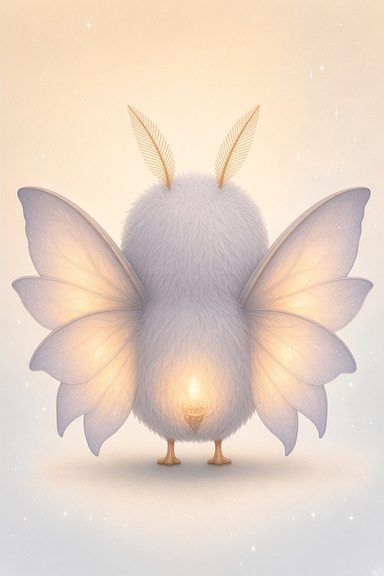
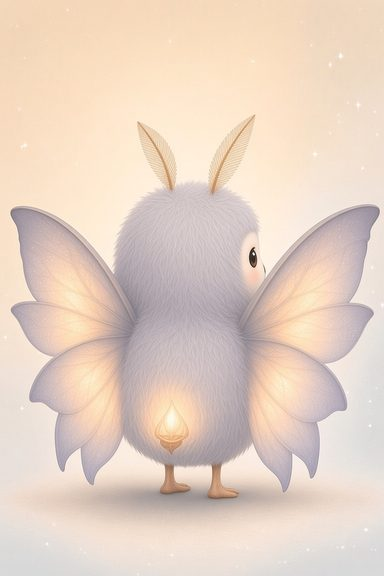
完善画面 1.10.10：修正体力越界夹具，接入 23 张朝右背面
浏览器回归曾把敌方体力写成超过上限，截图出现 70/63。夹具改为按真实上限写入并重画，检查数据而不在界面截断。23 张新背面改为朝右且不再翻转；叶角鹿三体和六只朝左的狐、獭策略不变。

Changed region(s): [[0.0312, 0.1875, 1.0, 0.9375], [0.3125, 0.1875, 0.5, 0.3438]]

diff --git a/src/game/facing.ts b/src/game/facing.ts
@@ -10,9 +10,9 @@ export interface BackRead {
 
 /**
  * left：头或胸朝画面左侧，我方槽位只做水平翻转，使它朝向右侧敌方。
- * right：背面稿已经朝画面右侧，不翻转。这一批是叶角鹿、翠枝鹿、森冕鹿。
- * rear：正后方，看不出面朝哪边。不翻转。不能当成已经面向敌方。
- * 正后方 23 张若换成已经朝右的新背面，要把对应 gaze 改成 right，避免和翻转叠在一起。
+ * right：背面稿已经朝画面右侧，不翻转。包括叶角鹿三体，以及 23 张新画的朝右背面。
+ * rear：正后方，看不出面朝哪边。不翻转。这一批已经没有。
+ * 这 23 张新背面不得再水平翻转，否则会和朝右稿叠成朝左。
  */
 export const BACK_READ: Record<SpeciesId, BackRead> = {
   lujiao: { gaze: 'right', why: '原稿头已经偏向画面右侧，尾巴也在右侧。再翻转会改成朝左。' },
@@ -24,29 +24,29 @@ export const BACK_READ: Record<SpeciesId, BackRead> = {
   xiwen: { gaze: 'left', why: '身体斜向画面左侧，水纹尾在右侧。' },
   chaowen: { gaze: 'left', why: '和汐纹獭同一朝向，头偏左，尾巴在右。' },
   canglan: { gaze: 'left', why: '和汐纹獭同一朝向，头偏左，尾巴在右。' },
-  luzhu: { gaze: 'rear', why: '正后方，左右对称，看不出面朝哪边。' },
-  linlu: { gaze: 'rear', why: '正后方，头顶水滴左右对称。' },
-  jinglu: { gaze: 'rear', why: '正后方，水滴和肩上的泡左右对称。' },
-  dianrong: { gaze: 'rear', why: '正后方。卷起的小尾不是头的朝向。' },
-  shanrong: { gaze: 'rear', why: '正后方。尾巴弯曲不是头的朝向。' },
-  tingrong: { gaze: 'rear', why: '正后方，额上的闪电左右对称。' },
-  yanke: { gaze: 'rear', why: '正后方的龟壳，头和尾都在中线。' },
-  panjia: { gaze: 'rear', why: '正后方。壳上偏左的叶子是花纹，不是面朝左侧。' },
-  fengling: { gaze: 'rear', why: '正后方，铃在背中线。' },
-  lingyu: { gaze: 'rear', why: '正后方，双铃在背中线。' },
-  yaoling: { gaze: 'rear', why: '正后方，双铃在背中线。' },
-  taibei: { gaze: 'rear', why: '正后方，苔背和耳朵左右对称。' },
-  senbei: { gaze: 'rear', why: '正后方，背上的花和果实不是朝向。' },
-  wudeng: { gaze: 'rear', why: '正后方，翅膀和触角左右对称。' },
-  wuhui: { gaze: 'rear', why: '正后方，四盏灯左右成对。' },
-  landeng: { gaze: 'rear', why: '正后方，灯在尾端中线。' },
-  yunyang: { gaze: 'rear', why: '正后方，双角左右对称。' },
-  lanjiao: { gaze: 'rear', why: '正后方，双角左右对称。' },
-  luoxing: { gaze: 'rear', why: '正后方，翼膜左右对称。' },
-  xingyi: { gaze: 'rear', why: '正后方，尾巴居中下垂。' },
-  liuxing: { gaze: 'rear', why: '正后方，翼膜和星尾左右对称。' },
-  hanquan: { gaze: 'rear', why: '头和躯干是正后方。尾巴甩向画面右侧，翻转只会把尾巴换边，不能变成面向敌方。' },
-  shuangquan: { gaze: 'rear', why: '和寒泉鲵一样，头是正后方，只有尾巴偏向一侧。' },
+  luzhu: { gaze: 'right', why: '新背面身体和远侧眼睛朝右，头的转幅较小，不再是正后方。不翻转。' },
+  linlu: { gaze: 'right', why: '同露珠蛙，远侧眼在右，头转幅较小。不翻转。' },
+  jinglu: { gaze: 'right', why: '同露珠蛙，远侧眼在右，头转幅较小。不翻转。' },
+  dianrong: { gaze: 'right', why: '新背面朝画面右侧。不翻转。' },
+  shanrong: { gaze: 'right', why: '同电绒鼠，朝右。不翻转。' },
+  tingrong: { gaze: 'right', why: '同电绒鼠，朝右。不翻转。' },
+  yanke: { gaze: 'right', why: '新背面朝画面右侧。不翻转。' },
+  panjia: { gaze: 'right', why: '新背面朝画面右侧。不翻转。' },
+  fengling: { gaze: 'right', why: '新背面朝画面右侧。不翻转。' },
+  lingyu: { gaze: 'right', why: '同风铃鸟，朝右。不翻转。' },
+  yaoling: { gaze: 'right', why: '同风铃鸟，朝右。不翻转。' },
+  taibei: { gaze: 'right', why: '新背面朝右。生成稿曾朝左，已在素材里纠正，代码不再翻转。' },
+  senbei: { gaze: 'right', why: '同苔背熊，朝右。生成稿曾朝左，已在素材里纠正，代码不再翻转。' },
+  wudeng: { gaze: 'right', why: '新背面朝右，头转幅很小，只看得到右侧一点眼睛。不翻转。' },
+  wuhui: { gaze: 'right', why: '朝右，头转幅比雾灯蛾稍明显。不翻转。' },
+  landeng: { gaze: 'right', why: '朝右，头转幅中等偏小。不翻转。' },
+  yunyang: { gaze: 'right', why: '新背面朝画面右侧。不翻转。' },
+  lanjiao: { gaze: 'right', why: '同云岩羊，朝右。不翻转。' },
+  luoxing: { gaze: 'right', why: '新背面朝画面右侧。不翻转。' },
+  xingyi: { gaze: 'right', why: '同落星鼯，朝右。不翻转。' },
+  liuxing: { gaze: 'right', why: '同落星鼯，朝右。不翻转。' },
+  hanquan: { gaze: 'right', why: '身体朝右，头几乎不转，后脑仍占主要位置。不翻转。' },
+  shuangquan: { gaze: 'right', why: '同寒泉鲵，身体朝右，头转幅很小。不翻转。' },
 };
 
 export function backGaze(id: SpeciesId): BackGaze {
@@ -64,4 +64,8 @@ export function rearSpecies(): SpeciesId[] {
 
 export function leftSpecies(): SpeciesId[] {
   return (Object.keys(BACK_READ) as SpeciesId[]).filter((id) => BACK_READ[id].gaze === 'left');
+}
+
+export function rightSpecies(): SpeciesId[] {
+  return (Object.keys(BACK_READ) as SpeciesId[]).filter((id) => BACK_READ[id].gaze === 'right');
 }

diff --git a/src/game/facing.test.ts b/src/game/facing.test.ts
@@ -1,5 +1,5 @@
 import { describe, expect, it } from 'vitest';
-import { BACK_READ, backGaze, backMirror, leftSpecies, rearSpecies } from './facing';
+import { BACK_READ, backGaze, backMirror, leftSpecies, rearSpecies, rightSpecies } from './facing';
 import { SPECIES_PORTRAIT_IDS, speciesPortraitHtml } from './portraits';
 import type { SpeciesId } from './types';
 
@@ -9,12 +9,17 @@ describe('背面朝向', () => {
     expect(new Set(Object.keys(BACK_READ))).toEqual(new Set(SPECIES_PORTRAIT_IDS));
     const gazes = new Set(Object.values(BACK_READ).map((row) => row.gaze));
     expect(gazes.has('left')).toBe(true);
-    expect(gazes.has('rear')).toBe(true);
+    expect(gazes.has('rear')).toBe(false);
     expect(gazes.has('right')).toBe(true);
     expect(leftSpecies()).toEqual(['yanwei', 'huowen', 'chiyan', 'xiwen', 'chaowen', 'canglan']);
     expect(backGaze('lujiao')).toBe('right');
     expect(backMirror('lujiao')).toBe(false);
-    expect(rearSpecies()).toHaveLength(23);
+    expect(backGaze('luzhu')).toBe('right');
+    expect(backMirror('luzhu')).toBe(false);
+    expect(backMirror('taibei')).toBe(false);
+    expect(backMirror('senbei')).toBe(false);
+    expect(rearSpecies()).toHaveLength(0);
+    expect(rightSpecies()).toHaveLength(26);
     for (const id of Object.keys(BACK_READ) as SpeciesId[]) {
       expect(backMirror(id)).toBe(backGaze(id) === 'left');
       expect(BACK_READ[id].why.length).toBeGreaterThan(4);

diff --git a/src/game/logic.test.ts b/src/game/logic.test.ts
@@ -10,6 +10,7 @@ import {
   judgeTiming,
   makeMon,
   maxHp,
+  vitalOverflow,
   performMove,
   currentObjective,
   grandmaFollowup,
@@ -25,6 +26,18 @@ import { createWorld, isWalkable, pathExists, tileCenter } from './world';
 const fixed = () => 0.5;
 
 describe('芽灵与属性', () => {
+
+  it('生成和治疗后的体力不超过上限，越界只被检查出来、不在显示层截断', () => {
+    const mon = makeMon('luzhu', 3, 1, true);
+    expect(mon.hp).toBe(maxHp(mon));
+    expect(maxHp(mon)).toBeGreaterThan(0);
+    expect(vitalOverflow(mon)).toBeNull();
+    healTeam([mon]);
+    expect(vitalOverflow(mon)).toBeNull();
+    const over = { ...mon, hp: maxHp(mon) + 17 };
+    expect(vitalOverflow(over)).toBe(`体力 ${maxHp(mon) + 17}/${maxHp(mon)}`);
+    expect(over.hp).toBe(maxHp(mon) + 17);
+  });
   it('至少 8 种生物，每种两个技能', () => {
     expect(SPECIES_LIST.length).toBeGreaterThanOrEqual(8);
     for (const species of SPECIES_LIST) {

diff --git a/src/game/logic.ts b/src/game/logic.ts
@@ -34,6 +34,15 @@ export function maxMp(mon: Mon): number {
   return profile(mon).maxMp;
 }
 
+/** 只检查数据是否越界，不在这里截断。界面应按真实值显示，方便发现错误写入。 */
+export function vitalOverflow(mon: Mon): string | null {
+  const hp = maxHp(mon);
+  const mp = maxMp(mon);
+  if (mon.hp > hp) return `体力 ${mon.hp}/${hp}`;
+  if ((mon.mp ?? 0) > mp) return `法力 ${mon.mp ?? 0}/${mp}`;
+  return null;
+}
+
 export function speedPoint(mon: Mon): number {
   return Math.max(1, Math.floor(profile(mon).core.spd * stageMul(mon.stages.spd)));
 }

diff --git a/src/game/game.ts b/src/game/game.ts
@@ -1640,6 +1640,19 @@ export class Game implements GameHost {
     this.saveSummaryText = `${saved.name} · 图鉴 ${caught}/${total} · ${formatPlay(saved.playMs)}`;
   }
 
+  hpLimit(mon: Mon): number {
+    return maxHp(mon);
+  }
+
+  mpLimit(mon: Mon): number {
+    return maxMp(mon);
+  }
+
+  /** 测试改完当场数据后重画，不改结算。 */
+  repaint(): void {
+    this.refresh();
+  }
+
   private refresh(): void {
     document.body.dataset.mode = this.mode;
     if (this.mode !== 'explore') document.getElementById('toast')?.classList.remove('show');

diff --git a/docs/playtest/ui-ten.md b/docs/playtest/ui-ten.md
@@ -2,7 +2,7 @@
 
 基准是 main `9f8e52b`，画面 1.10.0。这一组只改界面、战斗反馈和背面朝向，不改伤害、暴击、属性倍率、存档键和音乐键。浏览器试玩先 `localStorage.clear()`。`?test=1` 只缩短对话等待。把物种直接改成另一只、或用存档夹具的地方会标明。没有宣称从 1 级自然通关。
 
-朝向是对着 `public/portraits/*-back.jpg` 逐张看的。我方槽位在画面左侧，敌方在右侧。头或胸朝画面左侧的背面，只在我方槽位水平翻转。正后方不翻。图鉴、详情和敌方正面不翻。
+朝向是对着 `public/portraits/*-back.jpg` 逐张看的。我方槽位在画面左侧，敌方在右侧。头或胸朝画面左侧的背面，只在我方槽位水平翻转。已经朝右的背面不翻。图鉴、详情和敌方正面不翻。原先正后方的 23 张已换成朝右新稿，见文末 1.10.10 的接入记录。
 
 ## 1.10.1
 
@@ -81,4 +81,11 @@
 - 问题：出手特效如果在回合结束后还留着，下一回合会叠。减弱动画时刀光不应该继续晃。护盾标签仍读当场结算后的值，可能比「获得护盾」或「护盾挡下」那句战报早一拍。窄屏探索时音乐按钮被放在左右两张信息卡中间。
 - 改动：浏览器脚本在短按和数字键打完、重新可以出招之后，检查刀光、飘字和 `data-strike` 都已清掉。`prefers-reduced-motion` 下位移和飘字动画名为 none。伤害结算仍会执行。护盾点数改由已出现的战报驱动显示，出手那一句仍保持出手前的护盾，对应句子出现后再增减；回合结束仍改回结算后的真实值。窄屏探索时音乐按钮改到右侧信息卡下方并与它右对齐，空隙够宽时仍放在两卡之间的顶栏。不新增版本号。
 - 验证：本机重新跑 `npm test`，73 项通过（新增 1 项护盾显示时序）。`npm run build`、`npm run check:dist`、`npm run test:browser` 通过。浏览器脚本检查窄屏音乐按钮在右侧信息卡下方并与之右对齐，且不与摇杆、交谈、提示重叠。护盾用战报句子推进显示值，不改 30% 攻防和暴击公式。没有用浏览器肉眼验收截图。
-- 限制：没有从 1 级自然打完整条主线。没有人耳听审。正后方 23 张背面仍看不出面朝敌方，等 `/workspace/starbud-ui-right-back/deliver/` 的新背面到齐后再改 `BACK_READ`，避免和新稿方向叠成二次翻转。暴击截图把暴击追加设成 1、掷子设成 0.2，公式仍把暴击率封在 0.5。
+- 限制：没有从 1 级自然打完整条主线。没有人耳听审。暴击截图把暴击追加设成 1、掷子设成 0.2，公式仍把暴击率封在 0.5。
+
+本轮审查后又做了两处完善，仍记在 1.10.10，不另开版本。
+
+- 问题：`battle-390x844.png` 里敌方体力写成 70/63。核对后不是存档或战报快照把上限算错，而是浏览器回归夹具先把 3 级露珠蛙的体力写成 80（上限是 63），两次攻击后数据仍是 70，随后虽改成 40 却没有重画，截图还停在越界值。界面按真实数据画出了 70/63，没有在显示层截断。同一张图里的叶角鹿看似接近正面，资源路径仍是 `lujiao-back.jpg`：背面稿能看到尾巴和后脑，没有脸；测试也核对着 `-back`，不是占位或误用正面。
+- 改动：夹具改成按 `hpLimit` 写入，不超过上限；改完体力后调用 `repaint()`。增加 `vitalOverflow` 检查和浏览器断言：数据与界面的当前值都不能大于上限，可行动时界面要和数据一致。不在 UI 里截断来掩盖错误写入。23 张新背面已替换进 `public/portraits/`，`BACK_READ` 改为 `right` 且不再翻转；叶角鹿三体和六只朝左的狐、獭策略不变，正面稿不变。
+- 验证：本机重新跑 `npm test`，74 项通过。`npm run build`、`npm run check:dist`、`npm run test:browser` 和 `scripts/back-contact.mjs` 通过。`battle-390x844.png` 里敌方体力是合法的当前/上限（不再出现 70/63）。开场战斗和窄屏截图的我方资源都是 `lujiao-back.jpg`。朝向接触表在 `/tmp/xingya-shots/back-contact.png` 和 `docs/playtest/right-back/player-slot-contact.png`。没有把素材 zip 打进仓库。没有用浏览器肉眼充当验收，截图留给审查查看。
+- 限制：蛙、蛾、蝾螈的头转幅较小，不能写成每张都是很强的四分之三侧面；身体或远侧眼睛朝右，记录见 `docs/playtest/right-back-23.md`。苔背熊和森背熊的生成稿曾朝左，已在素材里翻转纠正，代码不再翻。390×844 战斗弹窗中部仍有一块空白，那是竖屏多出来的高度，这一轮没有改版式。

diff --git a/docs/design/setting.md b/docs/design/setting.md
@@ -142,9 +142,9 @@
 朝向：
 
 - 战斗里，我方当前芽灵用背面，对方用正面。野生战、训练师战、更换伙伴和体力耗尽都按这一条。换人之后，新的我方仍是背面，新的对方仍是正面。背面是单独画的，不是把正面镜像过来。
-- 我方站在战场左侧，敌方站在右侧。背面稿如果头或胸朝画面左侧，只在我方槽位水平翻转，让它朝向右侧的敌方。正后方、看不出朝向的背面不翻转。图鉴、详情、遭遇、技能页和敌方正面都不翻转。判定写在 `src/game/facing.ts`。
+- 我方站在战场左侧，敌方站在右侧。背面稿如果头或胸朝画面左侧，只在我方槽位水平翻转，让它朝向右侧的敌方。已经朝右的背面不翻转。图鉴、详情、遭遇、技能页和敌方正面都不翻转。判定写在 `src/game/facing.ts`。
 - 水平翻转只放在 `.portrait-facing`。攻击和受击的位移放在外层 `.battle-motion`，瞬时效果放在 `.battle-fx`。名字、体力和战报不进这两层，所以不会跟着反转。
-- 这一批里，原稿已经朝画面右侧、因此不翻转的是叶角鹿、翠枝鹿、森冕鹿。需要翻转的是焰尾狐、火纹狐、炽焰狐、汐纹獭、潮纹獭、沧澜獭。其余背面是正后方：露珠蛙、霖露蛙、晶露蛙、电绒鼠、闪绒鼠、霆绒鼠、岩壳龟、磐甲龟、风铃鸟、铃羽鸟、瑶铃鸟、苔背熊、森背熊、雾灯蛾、雾辉蛾、岚灯蛾、云岩羊、岚角羊、落星鼯、星翼鼯、流星鼯、寒泉鲵、霜泉鲵。寒泉鲵和霜泉鲵的尾巴偏向一侧，头仍是正后方，翻转不能当成已经面向敌方。磐甲龟壳上的叶子是花纹。这些正后方稿还没有朝向画面右侧的重绘。
+- 原稿已经朝画面右侧、因此不翻转的是叶角鹿、翠枝鹿、森冕鹿。需要翻转的仍是焰尾狐、火纹狐、炽焰狐、汐纹獭、潮纹獭、沧澜獭。其余 23 张已换成朝右的新背面，判定是 `right`，代码不得再翻转，否则会叠成朝左。这 23 张都朝右，但不是每张都是很强的四分之三侧面：露珠蛙、霖露蛙、晶露蛙的头转幅较小，远侧眼睛在右；雾灯蛾、雾辉蛾、岚灯蛾也是头转幅偏小；寒泉鲵和霜泉鲵身体朝右，头几乎不转。详细记录在 `docs/playtest/right-back-23.md`。
 - 队伍详情、初始三选一、图鉴、遭遇和技能页默认用正面。
 - 人物仍是一张正面：`player.jpg` 给三种称呼共用，`grandma.jpg`、`qinghe.jpg`、`lanchuan.jpg` 给芽婆婆、青禾、岚川。雾守和石岭没有静态立绘。
 
@@ -170,6 +170,5 @@
 
 - 努力值、个体洗练、繁殖和付费养成。
 - 进化、建筑室内、第二座岛、登录和云存档。
-- 正后方的背面稿还没有重绘成面向画面右侧。代码不把它们水平翻转来冒充朝向。
 
 这些没有写进结算。若以后做，先改代码和公式文档，再从本节删掉。

diff --git a/docs/playtest/right-back-23.md b/docs/playtest/right-back-23.md
@@ -1,0 +1,28 @@
+# 23 张朝右背面
+
+2026-11-24（Asia/Shanghai）接入。只替换原先正后方的 23 张 `public/portraits/*-back.jpg`。叶角鹿、翠枝鹿、森冕鹿的朝右原稿，以及焰尾狐、火纹狐、炽焰狐、汐纹獭、潮纹獭、沧澜獭的朝左原稿，都不改。全部正面也不改。
+
+判定写在 `src/game/facing.ts`。这 23 张的 `gaze` 都是 `right`，我方槽位不得再水平翻转，否则会和朝右稿叠成朝左。苔背熊、森背熊的生成稿曾经朝左，已在素材里翻转纠正，代码同样不再翻。
+
+## 怎么看
+
+- 总览： [new-backs-contact.jpg](right-back/new-backs-contact.jpg)
+- 新旧对照： [before-after-contact.jpg](right-back/before-after-contact.jpg)
+- 两只熊纠正前后： [taibei-senbei-flip-compare.jpg](right-back/taibei-senbei-flip-compare.jpg)
+
+规格仍是 384×576、渐进 JPEG、质量 82，没有拉伸。文件大小大约 17–26 KB，和原来的立绘接近。
+
+## 朝向
+
+这 23 张都朝画面右侧，也就是我方槽位面向右侧敌方。不能写成每张都是很强的四分之三侧面。
+
+- 朝向比较清楚的，占大多数，例如鸟、羊、鼯和部分鼠、龟。
+- 露珠蛙、霖露蛙、晶露蛙：身体仍接近正后方，头转幅较小；远侧眼睛或脸颊在右，所以方向是右。露珠蛙转幅最小。
+- 雾灯蛾：头转幅是蛾里最小的，只能看到右侧一点眼睛。雾辉蛾、岚灯蛾比它清楚一些，仍比鸟类含蓄。
+- 寒泉鲵、霜泉鲵：身体朝右（尾巴偏低左，前肢偏右），头几乎不转，后脑仍占主要位置。这是头转幅最小的两张，不是朝左。
+
+这些限制来自对最终 JPEG 的查看，不是只看生成提示词。
+
+## 没有放进仓库的
+
+交付目录里的 `starbud-right-back-portraits.zip` 没有提交。需要原包时看 `/workspace/starbud-ui-right-back/deliver/`。
